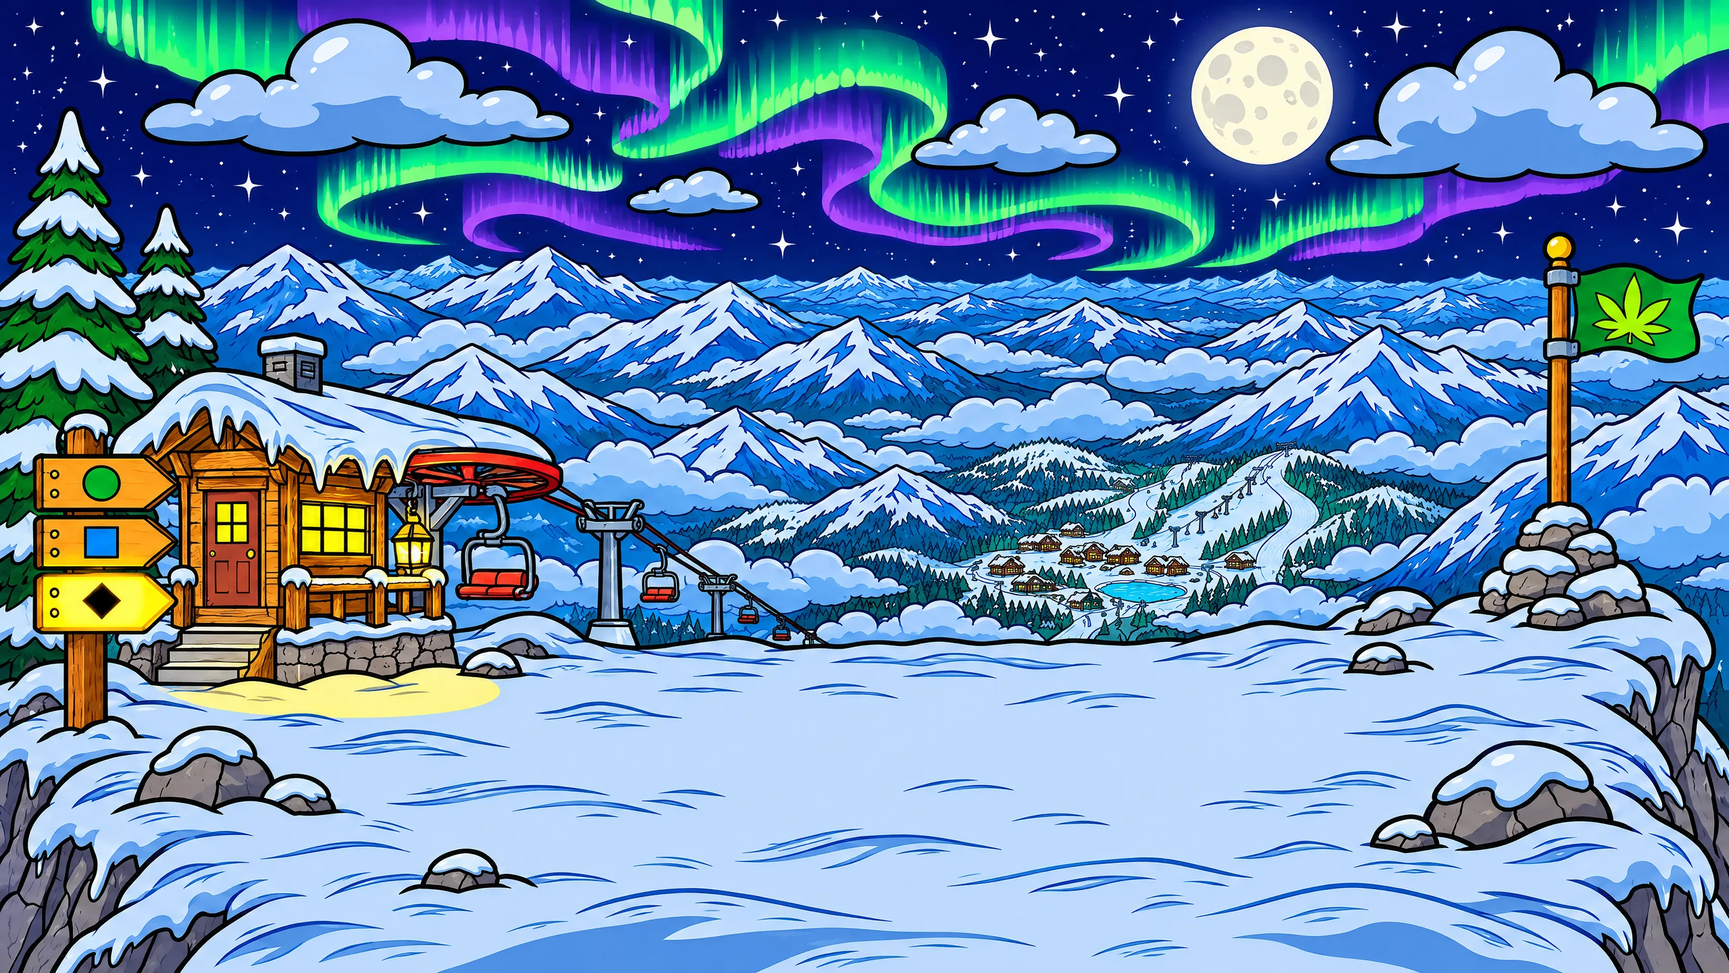
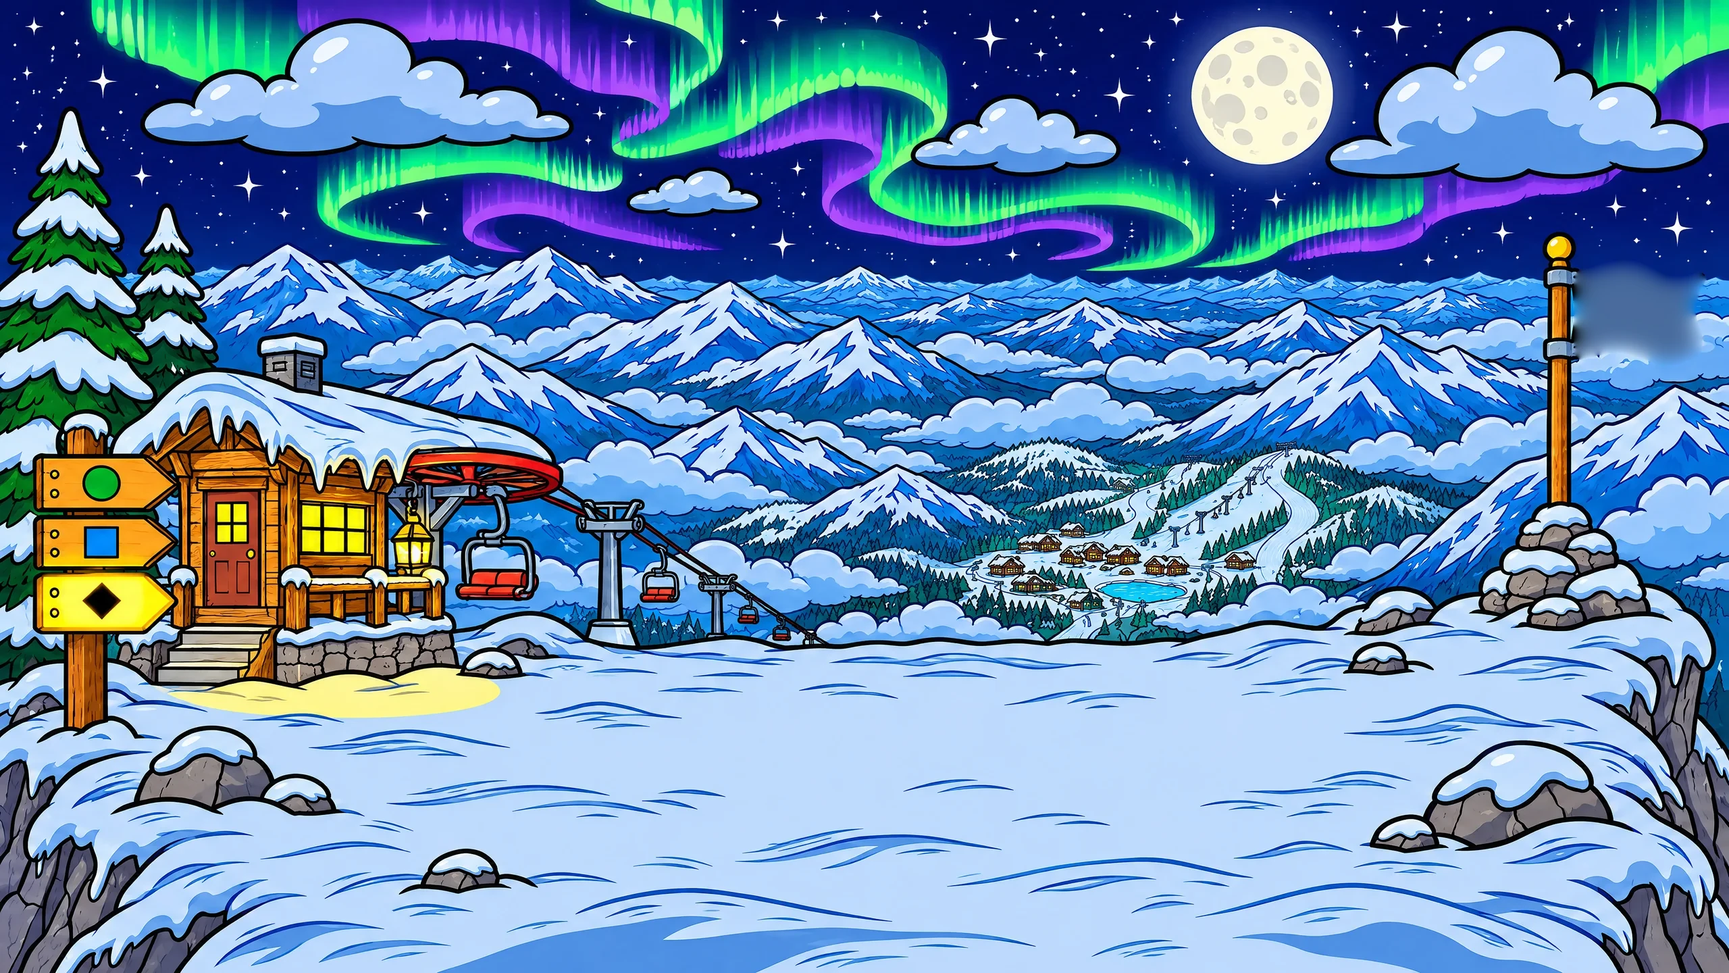
High Peaks: glacier win numerals, a Colorado-style flag in every scene, soft smoke, full-speed idles
Owner's notes of 2026-11-27.
- Idle animations play at full speed (SYM_IDLE_RATE 1).
- Win figures are blocky glacier ice (assets/num/*.webp + a dollar glyph, art/highpeaks/jobs/num_glacier.json).
- The flag is a Colorado-style parody that waves as cloth (46 strips, lit and shaded by its folds) and
  flies in every scene; the bonus plates' painted flag is taken off (tools/highpeaks/unflag_plates.py).
- The yeti's breath is a stream of soft wisps, with a fine thread off the joint (charrig.js).

Changed region(s): [[0.9062, 0.25, 1.0, 0.375]]

diff --git a/frontend/layers.js b/frontend/layers.js
@@ -37,7 +37,7 @@
   let PW = 3840, PH = 2160;
   const parts = { back: null, clouds: null, front: [] };
   const loops = [];            // per-frame work: the flag, the lift chairs
-  let raf = 0, last = 0, live = true;
+  let raf = 0, last = 0, live = true, over = null;
 
   const css = `
     #layers { position: absolute; z-index: 0; pointer-events: none; overflow: visible; contain: layout style; }
@@ -56,6 +56,12 @@
       animation: lyGlint var(--t, 6s) ease-in-out infinite; animation-delay: var(--d, 0s); }
     @keyframes lyGlint { 0%, 78%, 100% { opacity: 0; scale: .2; rotate: 0deg; } 86% { opacity: .95; scale: 1; rotate: 25deg; } 94% { opacity: 0; scale: .3; rotate: 45deg; } }
     #layers canvas.flag, #layers img.chair { position: absolute; display: block; }
+    /* what flies over EVERY scene's plate (the flag): above a bonus plate (#bgalt, z 1), under the sky's weather (#skyfx, z 5) */
+    #layers-over { position: absolute; z-index: 2; pointer-events: none; }
+    #layers-over canvas.flag { position: absolute; display: block; transition: filter .9s ease; }
+    #layers-over[data-lyscene="zombie"] canvas.flag { filter: brightness(.97) saturate(.82); }
+    #layers-over[data-lyscene="midnight"] canvas.flag { filter: brightness(.6) saturate(.9) hue-rotate(6deg); }
+    #layers-over[data-lyscene="nitro"] canvas.flag { filter: brightness(.84) saturate(1.08) sepia(.2); }
     #layers.off .track, #layers.off .pine, #layers.off .glint { animation-play-state: paused; }
     .lyfront { position: absolute; z-index: 3; display: block; pointer-events: none; user-select: none; transition: filter .9s ease;
       filter: brightness(.86) saturate(.96); }
@@ -134,7 +140,10 @@
     const props = el("div", "ly");
     root.appendChild(props);
     if (cfg.lift) lift(props, cfg.lift);
-    if (cfg.flag) flag(props, cfg.flag);
+    // the flag flies in every scene (the bonus plates' painted one is taken off: tools/highpeaks/unflag_plates.py)
+    over = el("div"); over.id = "layers-over"; over.dataset.lyscene = mode;
+    host.appendChild(over);
+    if (cfg.flag) flag(over, cfg.flag);
     const S = cfg.sparkle;
     if (S && !RM) for (let i = 0; i < (S.n || 8); i++) {
       const g = el("i", "glint", { left: pct(rand(S.box[0], S.box[2]), PW), top: pct(rand(S.box[1], S.box[3]), PH) });
@@ -190,31 +199,47 @@
 
   // The flag: its cloth drawn in upright strips, each lifted by a wave that runs out from the pole and grows toward
   // the free end.
+  // The flag (owner, 2026-11-27: "make the flag more realistic and a knock off colorado flag"): the cloth is cut into
+  // thin strips and each is set where a wave running out from the pole puts it - a big roll, a slow swell under it and
+  // a quick flutter that grows toward the free end, the whole thing rising and easing with the gusts. A strip turned
+  // away from the light is shaded and one turned to it is lit, and a strip seen edge-on is narrower, so the cloth
+  // foreshortens as it folds instead of sliding up and down flat. (It was 26 strips riding one sine.)
   function flag(props, F) {
-    const cv = el("canvas", "flag", { left: pct(F.x, PW), top: pct(F.y - F.h * .25, PH), width: pct(F.w * 1.08, PW) });
+    const cv = el("canvas", "flag", { left: pct(F.x, PW), top: pct(F.y - F.h * .3, PH), width: pct(F.w * 1.1, PW) });
     const im = img(F.src);
     props.appendChild(cv);
-    const N = 26;
+    const N = 46;
     let g = null, cw = 0, ch = 0;
     const size = () => {
       const k = Math.max(.25, Math.min(1, (rect ? rect.s : .3) * Math.min(2, devicePixelRatio || 1)));
-      cw = Math.max(16, Math.round(F.w * 1.08 * k)); ch = Math.max(16, Math.round(F.h * 1.5 * k));
+      cw = Math.max(16, Math.round(F.w * 1.1 * k)); ch = Math.max(16, Math.round(F.h * 1.6 * k));
       cv.width = cw; cv.height = ch; g = cv.getContext("2d");
     };
     size();
-    loops.push((t, resized) => {
+    const loop = (t, resized) => {
       if (resized) size();
       if (!im.complete || !im.naturalWidth) return;
       g.clearRect(0, 0, cw, ch);
-      const w = cw / 1.08, h = ch / 1.5, sw = im.naturalWidth / N;
+      const w = cw / 1.1, h = ch / 1.6, sw = im.naturalWidth / N, gust = .72 + .28 * Math.sin(t / 2100) + .1 * Math.sin(t / 730);
+      let x = 0;
       for (let i = 0; i < N; i++) {
-        const u = i / (N - 1);
-        const lift = Math.sin(t / 260 - u * 5.2) * .13 * u + Math.sin(t / 610 - u * 2.1) * .06 * u;
-        const squeeze = 1 - .05 * u * (1 + Math.sin(t / 260 - u * 5.2 + 1.2));
-        g.drawImage(im, i * sw, 0, sw + .5, im.naturalHeight, u * w * squeeze * (N - 1) / N, h * .25 + lift * h, w / N * squeeze + .8, h);
+        const u = i / (N - 1), amp = Math.pow(u, .8) * gust, ph = t / 235 - u * 6.6;
+        const lift = (Math.sin(ph) * .085 + Math.sin(t / 560 - u * 2.5) * .05 + Math.sin(t / 96 - u * 15) * .011) * amp;
+        const turn = Math.cos(ph) * amp;                       // which way this strip faces: -1 away from the light, 1 into it
+        const wd = (w / N) * (1 - .16 * Math.abs(turn)), hh = h * (1 - .035 * amp * Math.sin(ph));
+        const y = h * .3 + lift * h + (h - hh) / 2;
+        g.globalCompositeOperation = "source-over";
+        g.drawImage(im, i * sw, 0, sw + .5, im.naturalHeight, x, y, wd + .9, hh);
+        g.globalCompositeOperation = "source-atop";             // light and shade, on the cloth only
+        g.fillStyle = turn < 0 ? `rgba(6, 16, 52, ${(.36 * -turn).toFixed(3)})` : `rgba(255, 255, 255, ${(.2 * turn).toFixed(3)})`;
+        g.fillRect(x, y - 1, wd + .9, hh + 2);
+        x += wd;
       }
-    });
-    if (RM) im.addEventListener("load", () => { loops[loops.length - 1](0, true); }, { once: true });
+      g.globalCompositeOperation = "source-over";
+    };
+    loop.always = true;                                         // it flies in every scene
+    loops.push(loop);
+    if (RM) im.addEventListener("load", () => { loop(0, true); }, { once: true });
   }
 
   // ---------------------------------------------------------------- layout
@@ -222,6 +247,7 @@
     if (!root) return;
     rect = plateBox();
     Object.assign(root.style, { left: rect.x.toFixed(1) + "px", top: rect.y.toFixed(1) + "px", width: rect.w.toFixed(1) + "px", height: rect.h.toFixed(1) + "px" });
+    if (over) Object.assign(over.style, { left: root.style.left, top: root.style.top, width: root.style.width, height: root.style.height });
     // the front pieces: sized by the window's height, set into its corners
     const W = innerWidth, H = innerHeight;
     for (const { im, f } of parts.front) {
@@ -242,9 +268,9 @@
   function frame(t) {
     raf = 0;
     if (!live) return;
-    const busy = loops.length && mode === "normal" && !RM;
+    const busy = loops.length && !RM;                           // the lift only in the day scene; the flag in all of them
     if (busy && t - last >= 32) {
-      for (const f of loops) f(t, resized);
+      for (const f of loops) if (mode === "normal" || f.always) f(t, resized);
       resized = false; last = t;
     }
     if (busy) raf = requestAnimationFrame(frame);
@@ -273,6 +299,7 @@
     mode = name === "zombie" || name === "midnight" || name === "nitro" ? name : "normal";
     if (root) root.classList.toggle("off", mode !== "normal");
     if (near) near.dataset.lyscene = mode;
+    if (over) over.dataset.lyscene = mode;
     last = 0; kick();
   }
   const mood = name => (cfg && cfg.moods && (cfg.moods[name] || cfg.moods.normal)) || null;

diff --git a/frontend/charrig.js b/frontend/charrig.js
@@ -218,6 +218,11 @@
     const liveLayer = new PIXI.Container();
     actor.addChild(liveLayer);
     const LT = { smoke: tex("smoke"), ember: tex("ember"), sweat: tex("sweat") };
+    // (owner, 2026-11-27: "the smoke coming out the dude's mouth needs to look better and more realistic") His smoke is
+    // made of a soft, wispy puff now (assets/fx/smoke_soft.webp - the bong's), many small ones at a time: a breath
+    // is a stream of them leaving his mouth fast, slowing, curling apart and thinning as they rise, not three round
+    // cartoon balls. Until that picture is in (or if it never comes) the atlas's own puff is used as before.
+    if (PIXI.Assets && PIXI.Assets.load) PIXI.Assets.load("assets/fx/smoke_soft.webp").then(t => { if (t) LT.soft = t; }).catch(() => {});
     const PX = man.fx_px || {};
     const pts = {};
     for (const [k, v] of Object.entries(man.points || {})) pts[k] = { j: man.bones.indexOf(v.bone) * 6, x: v.at[0], y: v.at[1] };
@@ -291,22 +296,35 @@
     const pool = [];
     const sprite = (t, add) => {
       const s = pool.pop() || new PIXI.Sprite();
-      s.texture = t; s.anchor.set(.5); s.blendMode = add ? "add" : "normal"; s.visible = true;
+      s.texture = t; s.anchor.set(.5); s.blendMode = add ? "add" : "normal"; s.visible = true; s.tint = 0xffffff;
       liveLayer.addChildAt(s, 0);
       return s;
     };
-    let seed = 7919;
+    let seed = 7919, lastWisp = 0;
+    const SMOKE_TINT = 0xD6DDE9;   // a touch of grey-blue: pure white smoke is lost against snow and his white fur
     const rnd = () => ((seed = (seed * 16807) % 2147483647) - 1) / 2147483646;
     const spawn = (kind, now) => {
-      if (kind === "wisp" && LT.smoke && pts.tip) {
-        const s = sprite(LT.smoke);
-        particles.push({ s, kind, t0: now, life: 1700 + 500 * rnd(), from: null, sway: rnd() * 6.28, rise: 200 + 60 * rnd(),
-                         drift: 30 + 30 * rnd(), size: [.2, .72], spin: (rnd() - .5) * 1.2 });
+      const soft = !!LT.soft;
+      if (kind === "wisp1" && soft && pts.tip) {               // one fine puff of the thread
+        const s = sprite(LT.soft); s.tint = SMOKE_TINT;
+        particles.push({ s, kind: "wisp", soft, t0: now, life: 2100 + 900 * rnd(), from: null, sway: rnd() * 6.28, rise: 280 + 170 * rnd(),
+                         drift: 20 + 50 * rnd(), size: [.1, .5 + .32 * rnd()], spin: (rnd() - .5) * 1.6, a: .5, curl: 8 + 22 * rnd() });
+      } else if (kind === "wisp" && LT.smoke && pts.tip) {
+        // off the joint's tip: a thin thread (two fine puffs a beat apart) that rises, drifts and curls wider as it goes
+        for (let k = 0, n = soft ? 2 : 1; k < n; k++) {
+          const s = sprite(soft ? LT.soft : LT.smoke);
+          if (soft) s.tint = SMOKE_TINT;
+          particles.push({ s, kind, soft, t0: now + 110 * k, life: (soft ? 2300 : 1700) + 700 * rnd(), from: null, sway: rnd() * 6.28, rise: soft ? 300 + 160 * rnd() : 200 + 90 * rnd(),
+                           drift: 24 + 40 * rnd(), size: soft ? [.14, .7 + .3 * rnd()] : [.2, .72], spin: (rnd() - .5) * 1.2, a: soft ? .58 : .9, curl: soft ? 10 + 24 * rnd() : 14 });
+        }
       } else if (kind === "exhale" && LT.smoke && pts.mouth) {
-        for (let k = 0; k < 3; k++) {
-          const s = sprite(LT.smoke);
-          particles.push({ s, kind, t0: now + 120 * k, life: 1500 + 300 * rnd(), from: null, sway: rnd() * 6.28,
-                           dx: 70 + 60 * rnd(), dy: -(90 + 80 * rnd()), size: [.4, 1.35], spin: (rnd() - .5) * 1.4 });
+        // a breath out: a stream of soft puffs in a cone, each on its own line, quick at first
+        for (let k = 0, n = soft ? 26 : 3; k < n; k++) {
+          const s = sprite(soft ? LT.soft : LT.smoke);
+          if (soft) s.tint = SMOKE_TINT;
+          particles.push({ s, kind, soft, t0: now + (soft ? 34 : 120) * k, life: (soft ? 1900 : 1500) + (soft ? 1100 : 300) * rnd(), from: null, sway: rnd() * 6.28,
+                           dx: soft ? 110 + 260 * rnd() : 70 + 60 * rnd(), dy: soft ? -(40 + 190 * rnd()) : -(90 + 80 * rnd()),
+                           size: soft ? [.26 + .14 * rnd(), 1.5 + 1.1 * rnd()] : [.4, 1.35], spin: (rnd() - .5) * (soft ? 2.2 : 1.4), a: soft ? .5 + .22 * rnd() : .9, curl: soft ? 10 + 30 * rnd() : 10 });
         }
       } else if (kind === "sweat" && LT.sweat && pts.brow) {
         particles.push({ s: sprite(LT.sweat), kind, t0: now, life: 1450 });
@@ -318,7 +336,7 @@
         if (u >= 1) { s.visible = false; liveLayer.removeChild(s); pool.push(s); particles.splice(i, 1); continue; }
         if (u < 0) { s.visible = false; continue; }
         s.visible = true;
-        const fadeIn = Math.min(1, u / .12), fadeOut = u < .55 ? 1 : (1 - u) / .45;
+        const fadeIn = Math.min(1, u / .12), fadeOut = p.soft ? (u < .28 ? 1 : Math.pow((1 - u) / .72, 1.3)) : (u < .55 ? 1 : (1 - u) / .45);
         if (p.kind === "sweat") {                            // slides down his brow, riding his head
           const q = pointAt("brow", 6 * u, 70 * u * u);
           s.position.set(q.x, q.y);
@@ -329,13 +347,14 @@
         // a puff leaves FROM the point it belongs to: it rides the live point for its first moments, then is let go
         const live = pointAt(p.kind === "wisp" ? "tip" : "mouth");
         if (!p.from || u < .12) p.from = live;
-        const o = p.from, k = ease((u - .0) / 1);
+        // soft smoke leaves fast and slows (it is pushed, then only drifts), and its curl widens as it thins
+        const o = p.from, k = p.soft ? 1 - Math.pow(1 - u, 2.4) : ease((u - .0) / 1), curl = (p.curl ?? 12) * (p.soft ? .25 + u * 1.5 : 1);
         const g = p.size[0] + (p.size[1] - p.size[0]) * Math.sqrt(u);
-        if (p.kind === "wisp") s.position.set(o.x + p.drift * k + 14 * Math.sin(p.sway + 6 * u), o.y - p.rise * k);
-        else s.position.set(o.x + 25 + p.dx * k + 10 * Math.sin(p.sway + 5 * u), o.y + p.dy * k);
+        if (p.kind === "wisp") s.position.set(o.x + p.drift * k + curl * Math.sin(p.sway + 6 * u), o.y - p.rise * (p.soft ? u * (.55 + .45 * u) : k));
+        else s.position.set(o.x + 25 + p.dx * k + curl * Math.sin(p.sway + 5 * u), o.y + p.dy * k - (p.soft ? 110 * u * u : 0));
         s.scale.set(g * (PX.smoke || 150) / s.texture.frame.width);
         s.rotation = p.spin * u;
-        s.alpha = fadeIn * fadeOut * .9;
+        s.alpha = fadeIn * fadeOut * (p.a ?? .9);
       }
     };
     const emitBetween = (clip, f0, f1, now) => {          // the clip's live emits whose frame lies in (f0, f1]
@@ -485,6 +504,8 @@
       }
       show(cur.clip, f, glow);
       if (light.to) relight(now);
+      // the joint smokes all the time: a fine thread off its tip between the clip's own puffs (soft smoke only)
+      if (LT.soft && !still && now - lastWisp > 230) { lastWisp = now; spawn("wisp1", now); }
       stepParticles(now);
       stepFlakes(now);
     };

diff --git a/frontend/index.html b/frontend/index.html
@@ -3547,6 +3547,15 @@
   .jp.won { animation: jpwon2 .38s ease-in-out infinite alternate; }
   @keyframes jpwon2 { from { transform: scale(1.05); filter: drop-shadow(0 0 4px #fff) drop-shadow(0 0 10px var(--jpc)) brightness(1.1); }
                       to { transform: scale(1.13); filter: drop-shadow(0 0 7px #fff) drop-shadow(0 0 26px var(--jpc)) brightness(1.3); } }
+  /* ---------- High Peaks, 2026-11-27: the win figures are blocky GLACIER ice (owner, with a reference: "this win font
+     is boring ... we want a blocky glacier font like this", for the total win and the bonus's count of rounds too).
+     The numerals are pictures (assets/num/*.webp, cut from art/highpeaks/raw/num_glacier_a.png: chunky block digits of
+     cracked ice with a deep blue side); a currency mark that has no picture is lettered to sit with them - heavy,
+     pale ice with a navy edge and the same blue side. ---------- */
+  .totalwin .twamount .sym, .fswin .sym, .fillsum .fsmoney .sym, .fuelnum .sym, .bonusintro .bfig .sym {
+    font-family: "Fredoka", var(--num); font-weight: 700; color: #D6F1FF; -webkit-text-stroke-color: #123C86; paint-order: stroke fill;
+    text-shadow: .045em .06em 0 #2A6FC4, .09em .12em 0 #1B4FA0; letter-spacing: 0; }
+  .totalwin .twfig, .bonusintro .bfig { gap: 0; }
 </style>
 </head>
 <body>
@@ -4219,7 +4228,7 @@ const SYM_HEADROOM = 1.25;            // sheet px per screen px at rest: crisp a
 // their idles are worth seeing, so they come round about twice as often and a fifth of the board may move at once)
 const SYM_IDLE_REST = [4000, 11000];   // ms an icon rests between its idle cycles, at random (the first 0 to the most after it lands)
 const SYM_IDLE_MAX_SHARE = .2;        // at most this share of the board mid-idle at once: a start over it waits a moment
-const SYM_IDLE_RATE = .575;             // the idles play at this share of their frame rate: slow and barely noticed (owner, 2026-11-04); land/hit/multi at their own speed
+const SYM_IDLE_RATE = 1;                // the idles play at their own full speed (owner, 2026-11-27: "make idle animations play at full speed"; it was .575, slow and barely noticed)
 const SYMF = { man: null, density: "d16", sheets: new Map(), k: 1 };   // sheets: "<ID>_<clip>" -> { img, ok, ready, frames }
 // The clips every symbol plays all the time - its landing and its idle - are held as ready frames (perf,
 // 2026-11-03). Drawn straight from the sheets, the board needed every sheet decoded at once (~480 MB at
@@ -8642,7 +8651,7 @@ function assetUrls() {
     try { walk(sheet.cssRules); } catch (err) { /* a sheet from elsewhere: nothing to read */ }
   }
   for (const def of Object.values(SYM)) if (def.img) urls.add(def.img);
-  for (const n of ["0","1","2","3","4","5","6","7","8","9","dot","comma","x"]) urls.add("assets/num/" + n + ".webp");
+  for (const n of ["0","1","2","3","4","5","6","7","8","9","dot","comma","x","dollar"]) urls.add("assets/num/" + n + ".webp");
   // the win screen's lettering, named rather than read off WIN_TIERS: that list is declared
   // further down the file than this screen runs
   for (const n of ["total_win", "big_win", "mega_win", "xtreme_win"]) urls.add("assets/" + n + ".webp");
@@ -8877,7 +8886,8 @@ hoverWin(document.querySelector("#fsCard .fsplate"), { x: .35, y: .45, r: .4, s:
 // on a common baseline, so a row of them stands on one line. Anything the sheet has no glyph
 // for - a currency mark, a letter - is set beside them in the number font instead of being
 // dropped, so the figure still reads in every currency.
-const NUMERAL = { ".": "dot", ",": "comma", "x": "x", "\u00d7": "x" };
+// (2026-11-27: the glyphs are blocky glacier ice now - art/highpeaks/jobs/num_glacier.json - and the dollar sign is one of them)
+const NUMERAL = { ".": "dot", ",": "comma", "x": "x", "\u00d7": "x", "$": "dollar" };
 // A bad-TV-signal twitch (owner, 2026-10-26: YOU WON, the spins and every win figure): now and
 // then, for a fraction of a second, the element tears - bands of scanlines slide sideways, the
 // colour channels split red one way and cyan the other, and it jumps a pixel or two - a few

diff --git a/tools/highpeaks/unflag_plates.py b/tools/highpeaks/unflag_plates.py
@@ -1,0 +1,58 @@
+"""High Peaks: take the painted flag off the three bonus plates (2026-11-27).
+
+    python tools/highpeaks/unflag_plates.py
+
+The bonus scenes' plates (frontend/assets/scene/plate_zombie|midnight|nitro[_m].webp) were painted with the old green
+flag on the pole. The flag is one waving sprite over every scene now (frontend/layers.js: the Colorado-style one,
+assets/scene/layers/spr_flag.webp), so the painted one has to go or it shows round the edges of the moving one. This
+finds the green cloth beside the pole (in the box the flag stands in), and fills it from what is round it - sky and far
+peaks - by diffusion. The pole stays. What is left is a soft patch of scenery that the waving flag covers.
+Run once: a plate without green cloth there is left alone.
+"""
+import os
+import numpy as np
+from PIL import Image
+from scipy import ndimage
+
+ROOT = os.path.dirname(os.path.dirname(os.path.dirname(os.path.abspath(__file__))))
+SCENE = os.path.join(ROOT, 'frontend', 'assets', 'scene')
+BOX = (.893, .245, 1.0, .41)          # where the flag flies, as shares of the plate (x0, y0, x1, y1)
+
+
+def unflag(path):
+    im = Image.open(path).convert('RGB')
+    W, H = im.size
+    x0, y0, x1, y1 = round(BOX[0] * W), round(BOX[1] * H), round(BOX[2] * W), round(BOX[3] * H)
+    a = np.asarray(im).astype(np.float32)
+    box = a[y0:y1, x0:x1]
+    r, g, b = box[..., 0], box[..., 1], box[..., 2]
+    green = (g > b + 38) & (g > r * .93) & (g > 70)
+    lab, n = ndimage.label(green)
+    if not n:
+        return None
+    sizes = ndimage.sum(green, lab, range(1, n + 1))
+    cloth = np.isin(lab, 1 + np.flatnonzero(sizes > .004 * green.size))
+    if cloth.sum() < .03 * green.size:
+        return None                                              # no flag painted here (already taken off)
+    k = max(3, round(W / 320))                                   # the ink round the cloth, and a margin
+    near = ndimage.binary_dilation(cloth, iterations=k)
+    dark = box.max(-1) < 95
+    mask = ndimage.binary_dilation(cloth | (near & dark), iterations=max(2, k // 2))
+    mask = ndimage.binary_fill_holes(mask)
+    left = np.flatnonzero(cloth.any(0))[0]
+    mask[:, :max(0, left - 1)] = False                           # not the pole
+    out = box.copy()
+    out[mask] = box[~mask].mean(0)
+    for _ in range(600):                                         # fill from the edges inward
+        avg = (np.roll(out, 1, 0) + np.roll(out, -1, 0) + np.roll(out, 1, 1) + np.roll(out, -1, 1)) / 4
+        out[mask] = avg[mask]
+    a[y0:y1, x0:x1] = out
+    Image.fromarray(np.clip(a, 0, 255).astype(np.uint8)).save(path, 'WEBP', quality=90, method=6)
+    return int(mask.sum()), (x0, y0, x1, y1)
+
+
+if __name__ == '__main__':
+    for name in ('zombie', 'midnight', 'nitro'):
+        for suf in ('', '_m'):
+            p = os.path.join(SCENE, f'plate_{name}{suf}.webp')
+            print(os.path.basename(p), unflag(p) or 'no painted flag found: left alone', os.path.getsize(p) // 1024, 'KB')

diff --git a/README.md b/README.md
@@ -148,6 +148,19 @@ canvas at ~30 fps; nothing slides):
   (`sfx_thunder`), powder boiling up off the slide.
 The ice bong bubbles while it is hit and breathes out when it is let go (`sfx_bong_rip`, `sfx_bong_out`).
 
+Owner's notes of 2026-11-27:
+- **Idle animations** play at full speed (`SYM_IDLE_RATE` 1; it was .575).
+- **Win figures in blocky glacier ice** (`assets/num/*.webp`, cut from `art/highpeaks/raw/num_glacier_a.png`, job
+  `art/highpeaks/jobs/num_glacier.json`): chunky block digits of cracked ice with a deep blue side, for the total win,
+  the bonus's count of rounds and every other numeral row; the dollar sign is a glyph too (`NUMERAL`). The soft
+  "ice-chunk" numerals of `ice_numerals.py` are in git history.
+- **The flag** is a Colorado-style parody (blue / white / blue, a red C round a gold disc with a leaf;
+  `art/highpeaks/jobs/flag_co.json`) and waves as cloth: 46 strips on a rolling wave with a swell and a flutter, lit
+  and shaded by which way each strip faces, foreshortened as it folds (`layers.js` `flag`). It flies in EVERY scene
+  now (`#layers-over`); the bonus plates' painted green flag was taken off (`tools/highpeaks/unflag_plates.py`).
+- **The yeti's smoke** is soft and wispy (`assets/fx/smoke_soft.webp`): a breath is a stream of 26 puffs that leave
+  fast, slow, curl apart and thin; a fine thread rises off the joint all the time (`charrig.js`).
+
 Lobby art for engine.io, built from a BACKGROUND and a FOREGROUND the way the studio's Media Editor builds a tile
 (`tools/highpeaks/gen_covers.py gen`, then `build`; no text on any of it, owner rule):
 - `media/bg_16x9.png` (3840x2160) and `media/bg_3x4.png` (3072x4096): the summit with nobody in it, a sunburst sky,
